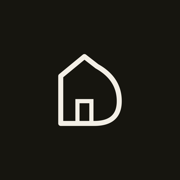
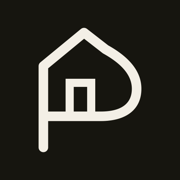
Propertale statt Domovio Media vorbereiten
Name, Logo P, Adresse propertale.de, info@propertale.de und
Instagram @propertale.media. domoviomedia.de und www leiten auf
propertale.de um. Erst hochladen, wenn propertale.de auf den
Webspace zeigt und das Postfach info@propertale.de existiert.

Changed region(s): [[0.1944, 0.1389, 0.8056, 0.8611]]

diff --git a/src/pages/widerruf.html b/src/pages/widerruf.html
@@ -1,17 +1,17 @@
-{"path":"/widerruf/","title":"Widerrufsbelehrung | Domovio Media","description":"Widerrufsbelehrung und Muster-Widerrufsformular für Verbraucher.","noindex":true}
+{"path":"/widerruf/","title":"Widerrufsbelehrung | Propertale","description":"Widerrufsbelehrung und Muster-Widerrufsformular für Verbraucher.","noindex":true}
 <section class="seitenkopf"><h1>Widerrufs&shy;belehrung</h1><p class="anlauf">Gilt für Verbraucher. Makler und andere Unternehmer haben bei ihren Aufträgen kein gesetzliches Widerrufsrecht.</p></section>
 <section class="block recht">
   <h2>Widerrufsrecht</h2>
   <p>Sie haben das Recht, binnen vierzehn Tagen ohne Angabe von Gründen diesen Vertrag zu widerrufen.</p>
   <p>Die Widerrufsfrist beträgt vierzehn Tage ab dem Tag des Vertragsabschlusses.</p>
-  <p>Um Ihr Widerrufsrecht auszuüben, müssen Sie uns (Domovio Media, Fatih Gökce, Lerchenstr. 5, 64823 Groß-Umstadt, Telefon: {{tel}}, E-Mail: <a href="mailto:{{mail}}">{{mail}}</a>) mittels einer eindeutigen Erklärung (z. B. ein mit der Post versandter Brief oder E-Mail) über Ihren Entschluss, diesen Vertrag zu widerrufen, informieren. Sie können dafür das beigefügte Muster-Widerrufsformular verwenden, das jedoch nicht vorgeschrieben ist.</p>
+  <p>Um Ihr Widerrufsrecht auszuüben, müssen Sie uns (Propertale, Fatih Gökce, Lerchenstr. 5, 64823 Groß-Umstadt, Telefon: {{tel}}, E-Mail: <a href="mailto:{{mail}}">{{mail}}</a>) mittels einer eindeutigen Erklärung (z. B. ein mit der Post versandter Brief oder E-Mail) über Ihren Entschluss, diesen Vertrag zu widerrufen, informieren. Sie können dafür das beigefügte Muster-Widerrufsformular verwenden, das jedoch nicht vorgeschrieben ist.</p>
   <p>Zur Wahrung der Widerrufsfrist reicht es aus, dass Sie die Mitteilung über die Ausübung des Widerrufsrechts vor Ablauf der Widerrufsfrist absenden.</p>
   <h2>Folgen des Widerrufs</h2>
   <p>Wenn Sie diesen Vertrag widerrufen, haben wir Ihnen alle Zahlungen, die wir von Ihnen erhalten haben, einschließlich der Lieferkosten (mit Ausnahme der zusätzlichen Kosten, die sich daraus ergeben, dass Sie eine andere Art der Lieferung als die von uns angebotene, günstigste Standardlieferung gewählt haben), unverzüglich und spätestens binnen vierzehn Tagen ab dem Tag zurückzuzahlen, an dem die Mitteilung über Ihren Widerruf dieses Vertrags bei uns eingegangen ist. Für diese Rückzahlung verwenden wir dasselbe Zahlungsmittel, das Sie bei der ursprünglichen Transaktion eingesetzt haben, es sei denn, mit Ihnen wurde ausdrücklich etwas anderes vereinbart; in keinem Fall werden Ihnen wegen dieser Rückzahlung Entgelte berechnet.</p>
   <p>Haben Sie verlangt, dass die Dienstleistungen während der Widerrufsfrist beginnen soll, so haben Sie uns einen angemessenen Betrag zu zahlen, der dem Anteil der bis zu dem Zeitpunkt, zu dem Sie uns von der Ausübung des Widerrufsrechts hinsichtlich dieses Vertrags unterrichten, bereits erbrachten Dienstleistungen im Vergleich zum Gesamtumfang der im Vertrag vorgesehenen Dienstleistungen entspricht.</p>
   <h2>Muster-Widerrufsformular</h2>
   <p>(Wenn Sie den Vertrag widerrufen wollen, dann füllen Sie bitte dieses Formular aus und senden Sie es zurück.)</p>
-  <p>An Domovio Media, Fatih Gökce, Lerchenstr. 5, 64823 Groß-Umstadt, E-Mail: {{mail}}</p>
+  <p>An Propertale, Fatih Gökce, Lerchenstr. 5, 64823 Groß-Umstadt, E-Mail: {{mail}}</p>
   <p>Hiermit widerrufe(n) ich/wir (*) den von mir/uns (*) abgeschlossenen Vertrag über den Kauf der folgenden Waren (*)/die Erbringung der folgenden Dienstleistung (*)</p>
   <ul class="liste">
     <li>Bestellt am (*)/erhalten am (*)</li>

diff --git a/src/pages/index.html b/src/pages/index.html
@@ -1,4 +1,4 @@
-{"path":"/","title":"Immobilienfotografie Rhein-Main | Domovio Media","description":"Immobilienfotos, Video und Drohne für Makler und Eigentümer im Rhein-Main-Gebiet. Feste Preise, Lieferung in 3 Werktagen. Domovio Media aus Groß-Umstadt."}
+{"path":"/","title":"Immobilienfotografie Rhein-Main | Propertale","description":"Immobilienfotos, Video und Drohne für Makler und Eigentümer im Rhein-Main-Gebiet. Feste Preise, Lieferung in 3 Werktagen. Propertale aus Groß-Umstadt."}
 <section class="held">
   <div class="held-bild">{{hero:immobilienfoto-wintergarten-treppe|Helles Wohnhaus mit Wintergarten, Holztreppe und Flügel}}</div>
   <div class="held-text">
@@ -50,11 +50,11 @@
   <p class="mass"><span>Region</span></p>
   <div class="zweispaltig">
     <h2>Unterwegs im Rhein-Main-Gebiet.</h2>
-    <div><p>Domovio Media sitzt in Groß-Umstadt und fotografiert Wohnungen und Häuser in Frankfurt, Darmstadt, Offenbach, Hanau, Wiesbaden und Mainz, im Taunus, im Odenwald und im Umland.</p>
+    <div><p>Propertale sitzt in Groß-Umstadt und fotografiert Wohnungen und Häuser in Frankfurt, Darmstadt, Offenbach, Hanau, Wiesbaden und Mainz, im Taunus, im Odenwald und im Umland.</p>
     <p><a href="/immobilienfotograf-rhein-main/">Mehr zur Region</a> · <a href="/haeufige-fragen/">Häufige Fragen</a></p></div>
   </div>
 </section>
 
 <section class="insta">
-  <a href="{{instagram}}" rel="noopener"><span class="etikett">Instagram</span><strong>@domovio.media</strong><span>Aktuelle Projekte ansehen oder per DM ein Shooting anfragen</span></a>
+  <a href="{{instagram}}" rel="noopener"><span class="etikett">Instagram</span><strong>@propertale.media</strong><span>Aktuelle Projekte ansehen oder per DM ein Shooting anfragen</span></a>
 </section>

diff --git a/src/pages/fragen.html b/src/pages/fragen.html
@@ -1,4 +1,4 @@
-{"path":"/haeufige-fragen/","crumb":"Häufige Fragen","title":"Häufige Fragen zur Immobilienfotografie | Domovio Media","description":"Was kosten Immobilienfotos? Wie werden sie geliefert? Was gilt für Drohne und Express? Antworten von Domovio Media aus dem Rhein-Main-Gebiet."}
+{"path":"/haeufige-fragen/","crumb":"Häufige Fragen","title":"Häufige Fragen zur Immobilienfotografie | Propertale","description":"Was kosten Immobilienfotos? Wie werden sie geliefert? Was gilt für Drohne und Express? Antworten von Propertale aus dem Rhein-Main-Gebiet."}
 <section class="seitenkopf">
   <h1><span class="etikett">Immobilienfotografie: häufige Fragen</span>Kurz beantwortet.</h1>
 </section>
@@ -14,7 +14,7 @@
   <h2>Wo dürfen die Bilder verwendet werden?</h2>
   <p>Makler und Eigentümer können die Medien für die Vermarktung auf allen Kanälen nutzen, zum Beispiel im Exposé, auf Immobilienportalen, auf der eigenen Website und in Social Media.</p>
   <h2>Fotografieren Sie auch für private Eigentümer?</h2>
-  <p>Ja. Domovio Media arbeitet für Makler und für private Eigentümer, die ihre Immobilie selbst vermarkten. Es gelten dieselben Preise.</p>
+  <p>Ja. Propertale arbeitet für Makler und für private Eigentümer, die ihre Immobilie selbst vermarkten. Es gelten dieselben Preise.</p>
   <h2>Gibt es auch Drohnenaufnahmen?</h2>
   <p>Ja. 5 Luftbilder kosten 100 €, 10 Luftbilder 150 € und ein Drohnenvideo 150 €. Luftbilder und Video zusammen kosten 250 €.</p>
   <h2>Was gibt es neben Fotos noch?</h2>

diff --git a/src/pages/datenschutz.html b/src/pages/datenschutz.html
@@ -1,8 +1,8 @@
-{"path":"/datenschutz/","title":"Datenschutz | Domovio Media","description":"Datenschutzerklärung von Domovio Media.","noindex":true}
+{"path":"/datenschutz/","title":"Datenschutz | Propertale","description":"Datenschutzerklärung von Propertale.","noindex":true}
 <section class="seitenkopf"><h1>Datenschutz&shy;erklärung</h1></section>
 <section class="block recht">
   <h2>1. Verantwortlicher</h2>
-  <p>Fatih Gökce, Domovio Media, Lerchenstr. 5, 64823 Groß-Umstadt<br>E-Mail: <a href="mailto:{{mail}}">{{mail}}</a>, Telefon: {{tel}}</p>
+  <p>Fatih Gökce, Propertale, Lerchenstr. 5, 64823 Groß-Umstadt<br>E-Mail: <a href="mailto:{{mail}}">{{mail}}</a>, Telefon: {{tel}}</p>
   <h2>2. Hosting und Server-Logfiles</h2>
   <p>Diese Website liegt bei der STRATO GmbH, Otto-Ostrowski-Straße 7, 10249 Berlin. Beim Aufruf verarbeitet der Server technisch notwendige Daten wie IP-Adresse, Datum und Uhrzeit, aufgerufene Seite, Browser und Betriebssystem. Das dient dem sicheren Betrieb der Website (Art. 6 Abs. 1 lit. f DSGVO). Mit Strato besteht ein Vertrag über Auftragsverarbeitung.</p>
   <h2>3. Keine Cookies, kein Tracking</h2>

diff --git a/src/pages/region.html b/src/pages/region.html
@@ -1,7 +1,7 @@
-{"path":"/immobilienfotograf-rhein-main/","crumb":"Region","title":"Immobilienfotograf Rhein-Main | Domovio Media","description":"Immobilienfotograf für Frankfurt, Darmstadt, Wiesbaden, Mainz, Offenbach, Hanau und den Taunus. Fotos, Video und Drohne aus einer Hand."}
+{"path":"/immobilienfotograf-rhein-main/","crumb":"Region","title":"Immobilienfotograf Rhein-Main | Propertale","description":"Immobilienfotograf für Frankfurt, Darmstadt, Wiesbaden, Mainz, Offenbach, Hanau und den Taunus. Fotos, Video und Drohne aus einer Hand."}
 <section class="seitenkopf">
   <h1><span class="etikett">Immobilienfotograf im Rhein-Main-Gebiet</span>Vor Ort in der ganzen Region.</h1>
-  <p class="anlauf">Domovio Media sitzt in Groß-Umstadt und fotografiert Immobilien für Makler und private Eigentümer zwischen Taunus und Odenwald.</p>
+  <p class="anlauf">Propertale sitzt in Groß-Umstadt und fotografiert Immobilien für Makler und private Eigentümer zwischen Taunus und Odenwald.</p>
 </section>
 <section class="block">
   <p class="mass"><span>Einsatzgebiet</span></p>

diff --git a/src/pages/leistungen.html b/src/pages/leistungen.html
@@ -1,4 +1,4 @@
-{"path":"/leistungen/","crumb":"Leistungen und Preise","title":"Leistungen und Preise | Domovio Media Immobilienfotografie","description":"Preise für Immobilienfotos, Immobilienvideo, Drohnenaufnahmen, 360°-Rundgang und virtuelles Homestaging im Rhein-Main-Gebiet."}
+{"path":"/leistungen/","crumb":"Leistungen und Preise","title":"Leistungen und Preise | Propertale Immobilienfotografie","description":"Preise für Immobilienfotos, Immobilienvideo, Drohnenaufnahmen, 360°-Rundgang und virtuelles Homestaging im Rhein-Main-Gebiet."}
 <section class="seitenkopf">
   <h1><span class="etikett">Immobilienfotografie: Leistungen und Preise</span>Klare Pakete. Feste Preise.</h1>
   <p class="anlauf">Alle Preise sind Endpreise. Gemäß § 19 UStG wird keine Umsatzsteuer berechnet.</p>

diff --git a/src/pages/impressum.html b/src/pages/impressum.html
@@ -1,8 +1,8 @@
-{"path":"/impressum/","title":"Impressum | Domovio Media","description":"Impressum von Domovio Media, Fatih Gökce, Groß-Umstadt.","crumb":"Impressum"}
+{"path":"/impressum/","title":"Impressum | Propertale","description":"Impressum von Propertale, Fatih Gökce, Groß-Umstadt.","crumb":"Impressum"}
 <section class="seitenkopf"><h1>Impressum</h1></section>
 <section class="block recht">
   <h2>Angaben gemäß § 5 DDG</h2>
-  <p>Fatih Gökce<br>Domovio Media<br>Lerchenstr. 5<br>64823 Groß-Umstadt</p>
+  <p>Fatih Gökce<br>Propertale<br>Lerchenstr. 5<br>64823 Groß-Umstadt</p>
   <h2>Kontakt</h2>
   <p>Telefon: <a href="tel:{{tel_link}}">{{tel}}</a><br>E-Mail: <a href="mailto:{{mail}}">{{mail}}</a></p>
   <h2>Umsatzsteuer</h2>

diff --git a/src/pages/kontakt.html b/src/pages/kontakt.html
@@ -1,4 +1,4 @@
-{"path":"/kontakt/","crumb":"Kontakt","title":"Kontakt und Anfrage | Domovio Media","description":"Shooting für Ihre Immobilie anfragen: per Formular, E-Mail, Telefon oder Instagram. Domovio Media, Immobilienfotografie im Rhein-Main-Gebiet."}
+{"path":"/kontakt/","crumb":"Kontakt","title":"Kontakt und Anfrage | Propertale","description":"Shooting für Ihre Immobilie anfragen: per Formular, E-Mail, Telefon oder Instagram. Propertale, Immobilienfotografie im Rhein-Main-Gebiet."}
 <section class="seitenkopf">
   <h1><span class="etikett">Immobilien-Shooting anfragen</span>Welche Immobilie zeigen wir als Nächstes?</h1>
   <p class="anlauf"><a href="mailto:{{mail}}">{{mail}}</a><br><a href="tel:{{tel_link}}">{{tel}}</a></p>

diff --git a/src/pages/referenzen.html b/src/pages/referenzen.html
@@ -1,4 +1,4 @@
-{"path":"/referenzen/","crumb":"Referenzen","title":"Referenzen Immobilienfotos Rhein-Main | Domovio Media","description":"Beispiele aus der Immobilienfotografie im Rhein-Main-Gebiet: Stadtwohnung, Haus mit Wintergarten und Einfamilienhaus."}
+{"path":"/referenzen/","crumb":"Referenzen","title":"Referenzen Immobilienfotos Rhein-Main | Propertale","description":"Beispiele aus der Immobilienfotografie im Rhein-Main-Gebiet: Stadtwohnung, Haus mit Wintergarten und Einfamilienhaus."}
 <section class="seitenkopf">
   <h1><span class="etikett">Referenzen Immobilienfotografie Rhein-Main</span>So wirkt Ihre Immobilie.</h1>
   <p class="anlauf">Eine Auswahl aus aktuellen Aufträgen im Rhein-Main-Gebiet.</p>

diff --git a/src/pages/ablauf.html b/src/pages/ablauf.html
@@ -1,4 +1,4 @@
-{"path":"/ablauf/","crumb":"Ablauf","title":"Ablauf eines Immobilien-Shootings | Domovio Media","description":"Von der Anfrage bis zum Downloadlink: So läuft ein Shooting mit Domovio Media ab, inklusive Tipps zur Vorbereitung Ihrer Immobilie."}
+{"path":"/ablauf/","crumb":"Ablauf","title":"Ablauf eines Immobilien-Shootings | Propertale","description":"Von der Anfrage bis zum Downloadlink: So läuft ein Shooting mit Propertale ab, inklusive Tipps zur Vorbereitung Ihrer Immobilie."}
 <section class="seitenkopf">
   <h1><span class="etikett">Ablauf eines Immobilien-Shootings</span>Vom Termin zum fertigen Link.</h1>
 </section>

diff --git a/src/pages/danke.html b/src/pages/danke.html
@@ -1,2 +1,2 @@
-{"path":"/danke/","title":"Danke | Domovio Media","description":"Ihre Anfrage ist angekommen.","noindex":true}
+{"path":"/danke/","title":"Danke | Propertale","description":"Ihre Anfrage ist angekommen.","noindex":true}
 <section class="seitenkopf"><span class="etikett">Anfrage gesendet</span><h1>Danke für Ihre Anfrage.</h1><p class="anlauf">Sie hören zeitnah von mir.</p><p><a class="knopf rand" href="/">Zur Startseite</a></p></section>

diff --git a/src/pages/404.html b/src/pages/404.html
@@ -1,2 +1,2 @@
-{"path":"/404/","title":"Seite nicht gefunden | Domovio Media","description":"Diese Seite gibt es nicht.","noindex":true}
+{"path":"/404/","title":"Seite nicht gefunden | Propertale","description":"Diese Seite gibt es nicht.","noindex":true}
 <section class="seitenkopf"><span class="etikett">Fehler 404</span><h1>Hier steht noch nichts.</h1><p><a class="knopf rand" href="/">Zur Startseite</a></p></section>
